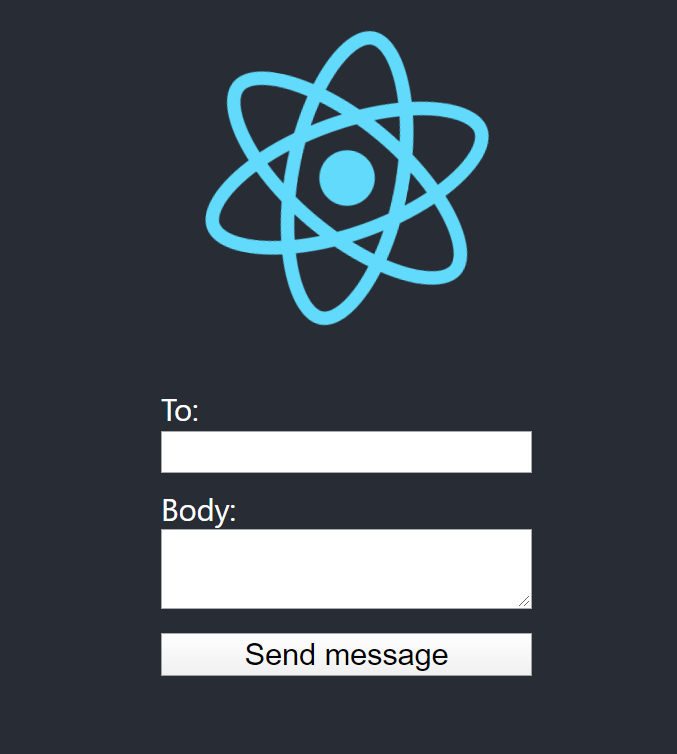
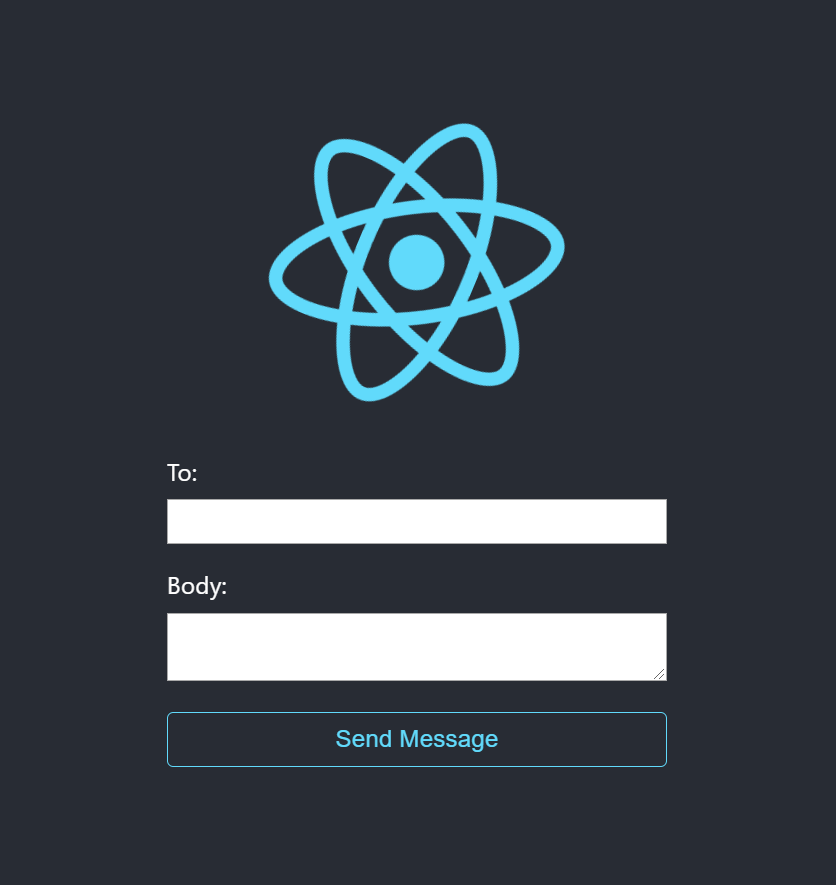
changed styles, modified readme

Changed region(s): [[0.1861, 0.5186, 0.8065, 0.9151], [0.2792, 0.0305, 0.7445, 0.4576]]

diff --git a/README.md b/README.md
@@ -106,7 +106,7 @@ app.post('/api/messages', (req, res) => {
     })
     .catch(err => {
       console.log(err);
-      res.send(JSON.stringify({ success: false })); // sends a failure/error response to the client
+      res.send(JSON.stringify({ success: false, errorMsg: err.toString() })); // sends a failure/error response to the client
     });
 });
 ```
@@ -121,7 +121,7 @@ We'll begin working on the client side now! First change into the `src` director
 import React, { Component } from 'react';
 
 class SMSForm extends Component {
-render() {
+  render() {
     return (
       <form className="sms-form">
         <div>
@@ -147,30 +147,46 @@ export default SMSForm;
 ```
 
 Let's make the form a little prettier with some CSS! Create a filed called `SMSForm.css` in your `src` directory and add the following:
-``` js
+``` css
 form {
-    text-align: left;
-    padding: 1em;
-  }
-  form label {
-    display: block;
-  }
-  form input,
-  form textarea {
-    font-size: 1em;
-    width: 100%;
-    box-sizing: border-box;
-  }
-  form div {
-    margin-bottom: 0.5em;
-  }
-  form button {
-    font-size: 1em;
-    width: 100%;
-  }
-  form error {
-    outline: 2px solid #f00;
-  }
+  padding: .5em;
+  width: 400px;
+  max-width: 80%;
+  font-size: .8em;
+  text-align: left;
+}
+form label {
+  display: block;
+  margin-bottom: .5em;
+}
+form input,
+form textarea {
+  box-sizing: border-box;
+  width: 100%;
+  padding: .25em;
+  font-size: 1em;
+}
+form div {
+  margin-bottom: 1em;
+}
+form button {
+  width: 100%;
+  padding: .5em;
+  color: rgb(97,218,251);
+  background-color: transparent;
+  border: solid 1px rgb(97,218,251);
+  border-radius: 5px;
+  font-size: 1em;
+}
+form.error {
+  outline: 2px solid #f00;
+}
+.error-msg{
+  margin-top: 1.0em;
+  color: #f00;
+  white-space: normal;
+  font-size: 0.8em;
+}
 ```
 
 Remember to import the CSS at the top of `SMSForm.js`! See if you can import it by yourself.
@@ -182,6 +198,20 @@ import React, { Component } from 'react';
 import './SMSForm.css';
  ```
 </details>
+
+To display this component, change the `App.js` file in your `src` directory. You can get rid of all the code in the `App` class and only leave a render function:
+```js
+return (
+      <div className="App">
+        <header className="App-header">
+          <img src={logo} className="App-logo" alt="logo" />
+
+          <SMSForm />
+        </header>
+      </div>
+    );
+  }
+```
 
 Now you should have have something that looks like this:
 ![Form](img/After_updating_form.png)
@@ -199,7 +229,10 @@ class SMSForm extends Component {
         body: ''
       },
       submitting: false,
-      error: false
+      error: {
+        state: false,
+        msg: ''
+      }
     };
   }
 
@@ -240,38 +273,45 @@ onChange={this.onHandleChange}
 Now run `yarn run dev` again -- your form should be interactive. Use __React dev tools__ for your browser and you should be able to see the state changing.
 ![React Dev Tools](img/Interactive_update.png)
 
-To hand the form submission, we will build another function called `onSubmit` and use the `fetch` API to make a request to the server using the POST method we just created in the server. If the response for the server is successful, we will clear the form and set `submitting` to false. If the response is not successful, we will still set `submitting` to false, but also set `error` to true. See the server's Promise if this doesn't make sense.
+To hand the form submission, we will build another function called `onSubmit` and use the `fetch` API to make a request to the server using the POST method we just created in the server. If the response for the server is successful, we will clear the form and set `submitting` to false. If the response is not successful, we will still set `submitting` to false, but also set `error.state` to true and update the error message in `error.msg`. See the server's Promise if this doesn't make sense.
 ```js
- onSubmit(event) {
-    event.preventDefault();
-    this.setState({ submitting: true });
-    fetch('/api/messages', {
-      method: 'POST',
-      headers: {
-        'Content-Type': 'application/json'
-      },
-      body: JSON.stringify(this.state.message)
-    })
-      // Read the server's response and check if its API request was successful
-      .then(res => res.json())
-      .then(data => {
-        if (data.success) {
-          this.setState({
-            error: false,
-            submitting: false,
-            message: {
-              to: '',
-              body: ''
-            }
-          });
-        } else {
-          this.setState({
-            error: true,
-            submitting: false
-          });
+onSubmit(event) {
+  event.preventDefault();
+  this.setState({ submitting: true });
+  fetch('/api/messages', {
+    method: 'POST',
+    headers: {
+      'Content-Type': 'application/json'
+    },
+    body: JSON.stringify(this.state.message)
+  })
+  // Read the server's response and check if its API request was successful
+  .then(res => res.json())
+  .then(data => {
+    console.log(data);
+    if (data.success) {
+      this.setState({
+        error: {
+          state: false,
+          msg: ''
+        },
+        submitting: false,
+        message: {
+          to: '',
+          body: ''
         }
       });
-  }
+    } else {
+      this.setState({
+        error: {
+          state: true,
+          msg: data.errorMsg
+        },
+        submitting: false
+      });
+    }
+  });
+}
   ```
 :exclamation: Remember to bind this method to the object as well! Add this line right after your `onHandleChange` binding in the constructor.
 
@@ -280,38 +320,24 @@ Update your form to be:
 ```js
 <form
     onSubmit={this.onSubmit}
-    className={this.state.error ? 'error sms-form' : 'sms-form'}
+    className={this.state.error.state ? 'error sms-form' : 'sms-form'}
 >
 ```
 and update your button be:
 ```js
 <button type="submit" disabled={this.state.submitting}>
 ```
+Add a new line at the bottom of the form to display the error message:
+
+```js
+  </button>
+  <div className="error-msg">{this.state.error.msg}</div> // new line
+</form>
+```
 :sparkles: :sparkles: :sparkles:
 __YOU'RE DONE!!!__ Congrats! Now you have an interactive form that allows you to text a message to a number. Try entering your number and a message -- you should receive a text from your Twilio number! Additionally, if you type in an unrecognized or bad number, the error red outline will appear.
 
 (Note: Each text you send costs $0.01 -- your free trial gives you $15.50 to begin with, so don't send too many texts!)
-
-
-
-## Tim's stuff/recommendations
-
-![screen shots are helpful](img/screenshot.png)
-
-:sunglasses: GitHub markdown files [support emoji notation](http://www.emoji-cheat-sheet.com/)
-
-Here's a resource for [github markdown](https://guides.github.com/features/mastering-markdown/).
-
-## Use collapsible sections when you are giving away too much code
-<details>
- <summary>Click to expand!</summary>
- 
- ```js
- // some code
- console.log('hi');
- ```
-</details>
-
 
 
 ## Summary / What you Learned
@@ -322,8 +348,6 @@ Here's a resource for [github markdown](https://guides.github.com/features/maste
 
 ## Reflection
 
-*2 questions for the workshop participants to answer (very short answer) when they submit the workshop. These should try to get at something core to the workshop, the what and the why.*
-
 * [ ] Why did we create server and client files?
 * [ ] What is the point of having Promises in our code?
 
@@ -331,7 +355,8 @@ Here's a resource for [github markdown](https://guides.github.com/features/maste
 ## Resources
 
 * https://www.twilio.com/blog/send-an-sms-react-twilio
-# React application with Express server
+* https://www.twilio.com/docs/api/errors
+<!-- # React application with Express server
 
 This project was bootstrapped with [Create React App](https://github.com/facebookincubator/create-react-app). Then an Express server was added in the `server` directory. The server is proxied via the `proxy` key in `package.json`.
 
@@ -369,4 +394,4 @@ The React application will run on port 3000 and the server port 3001.
 
 ## React Twilio starter
 
-The [twilio branch](https://github.com/philnash/react-express-starter/tree/twilio) is a similar setup but also provides endpoints with basic [Access Tokens](https://www.twilio.com/docs/iam/access-tokens) for [Twilio Programmable Chat](https://www.twilio.com/docs/chat) and [Twilio Programmable Video](https://www.twilio.com/docs/video). You can use the project as a base for building React chat or video applications.
+The [twilio branch](https://github.com/philnash/react-express-starter/tree/twilio) is a similar setup but also provides endpoints with basic [Access Tokens](https://www.twilio.com/docs/iam/access-tokens) for [Twilio Programmable Chat](https://www.twilio.com/docs/chat) and [Twilio Programmable Video](https://www.twilio.com/docs/video). You can use the project as a base for building React chat or video applications. -->
